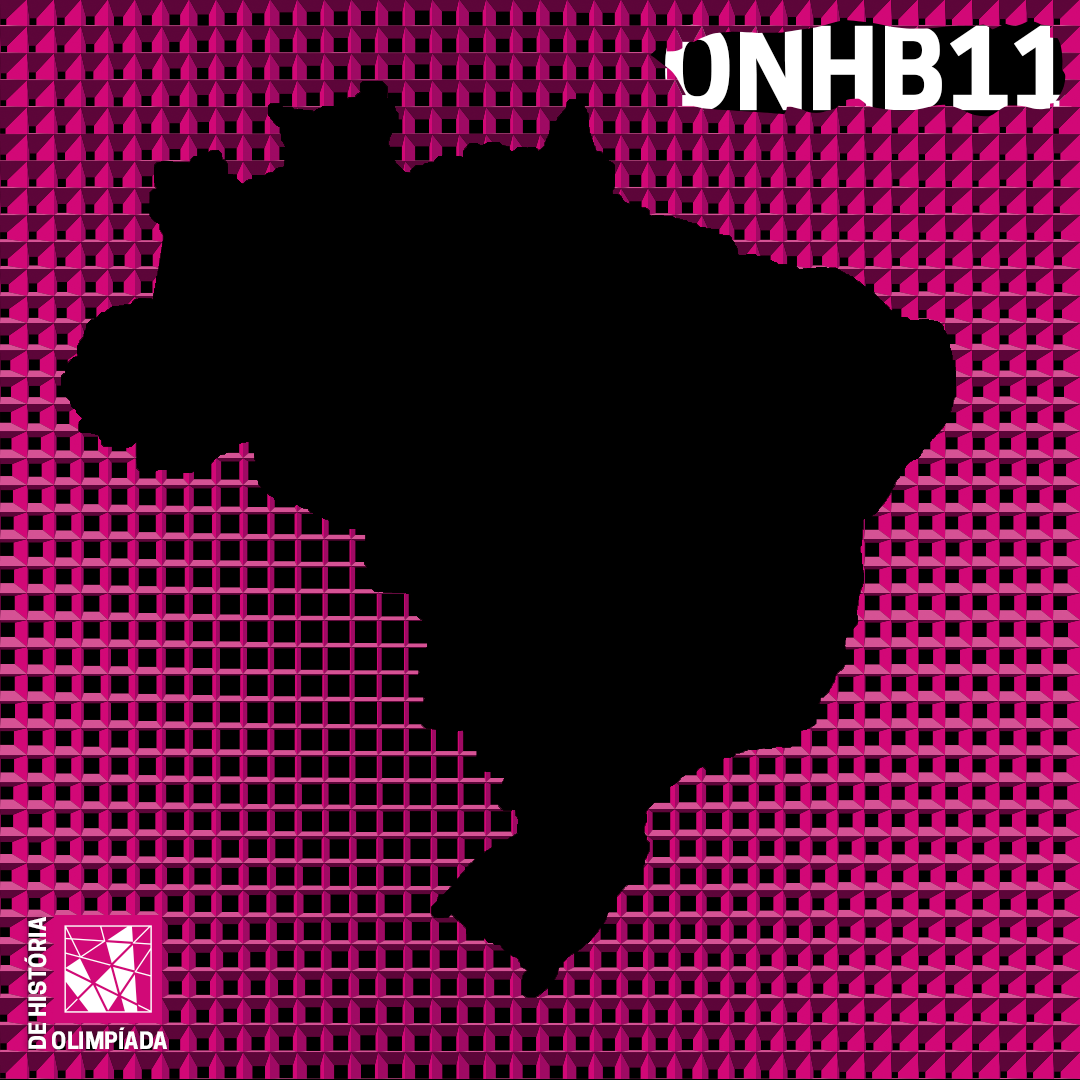
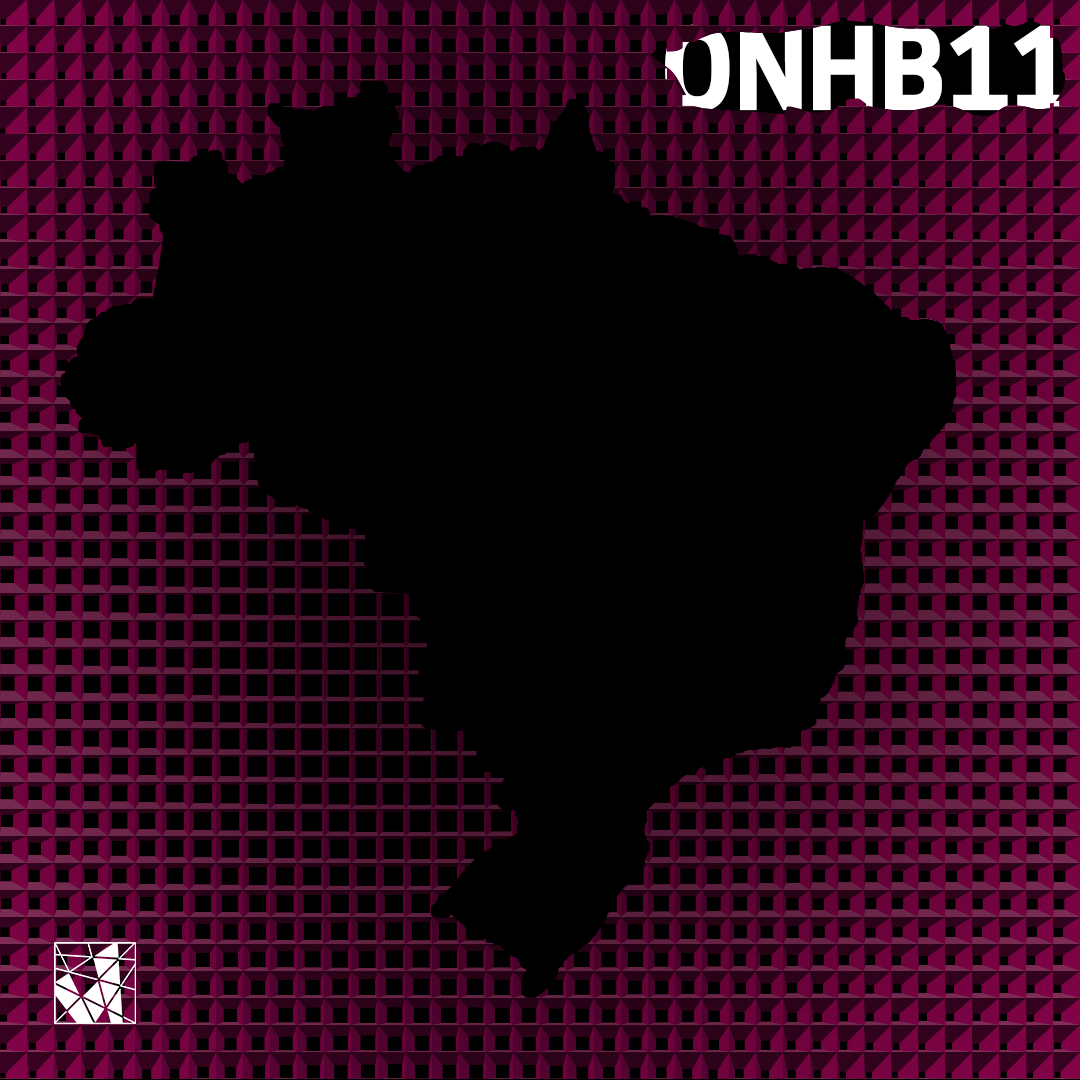
mix between log and linear

diff --git a/js/main.js b/js/main.js
@@ -1,4 +1,5 @@
 var canvas;
+let debug = true;
 
 var state_list = [
   { state: "AC", x: 143, y: 419, el: null, img: null, region: "N" },
@@ -31,11 +32,11 @@ var state_list = [
 ];
 
 let tints = {
-  N: [43, 181, 48],
+  N: [255, 38, 150],
   NE: [255, 38, 150],
-  CO: [162, 48, 255],
-  SE: [252, 6, 31],
-  S: [54, 233, 194]
+  CO: [255, 38, 150],
+  SE: [255, 38, 150],
+  S: [255, 38, 150]
 };
 
 let myFont;
@@ -55,7 +56,11 @@ function setup() {
   frameRate(1);
   textAlign(CENTER);
   textFont(myFont);
-  textSize(18);
+  textSize(20);
+}
+
+function sLog(v) {
+  return Math.log(v); // / Math.log(1.5);
 }
 
 function draw() {
@@ -69,15 +74,30 @@ function draw() {
   state_list.forEach(function(element) {
     if (!element.el) {
       element.el = document.getElementById(element.state);
+      if (element.el.value == "" && debug) {
+        let v;
+        if (Math.random() < 4 / 27) {
+          v = parseInt(Math.random() * 3000);
+        } else {
+          v = parseInt(Math.random() * 800);
+        }
+
+        element.el.value = v;
+      }
     }
     if (element.el.value != "") {
       if (element.img && isNumeric(element.el.value)) {
-        let min = 0.2;
+        let min = 0.0;
         let range = 1.0 - min;
-        let opacity =
-          parseInt((parseInt(element.el.value) / max.geral) * 5) / 5; // flattens it to 5 values
+
+        let v = parseInt(element.el.value);
+        let v_lin = v / max.geral;
+        let v_log = sLog(v) / sLog(max.geral);
+
+        let opacity = v_lin * 0.3 + v_log * 0.7;
         opacity = opacity * range + min;
-        t = tints[element.region];
+
+        let t = tints[element.region];
         tint([t[0], t[1], t[2], opacity * 255]);
         image(element.img, 0, 0);
       }
@@ -111,11 +131,12 @@ function findMax() {
   state_list.forEach(function(element) {
     if (element.el) {
       if (isNumeric(element.el.value)) {
-        if (parseInt(element.el.value) > m[element.region]) {
-          m[element.region] = parseInt(element.el.value);
+        let v = parseInt(element.el.value);
+        if (v > m[element.region]) {
+          m[element.region] = v;
         }
-        if (parseInt(element.el.value) > m.geral) {
-          m.geral = parseInt(element.el.value);
+        if (v > m.geral) {
+          m.geral = v;
         }
       }
     }
